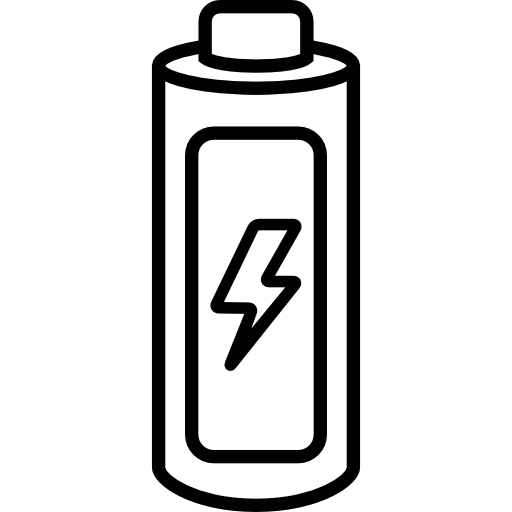
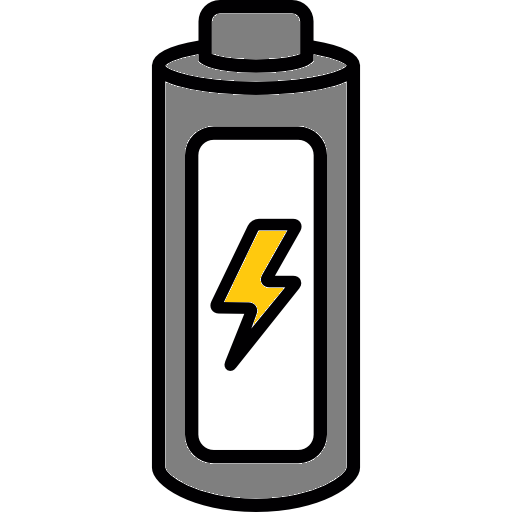
solución de errores, batería ya puede colocar mas de un cable, se mejoro el fondo,

Changed region(s): [[0.3125, 0.0, 0.6875, 1.0], [0.4375, 0.4375, 0.5625, 0.625]]

diff --git a/proyecto/scr/Cablear.java b/proyecto/scr/Cablear.java
@@ -130,19 +130,21 @@ public class Cablear {
     }
 
     public Boolean dibujarCable(double startX, double startY, double endX, double endY, int fila, int columna) {
-        // Comprobar si el cable está siendo dibujado en el mismo punto
-        if (startX == endX && startY == endY) {
-            System.err.println("Error: El cable no puede ser dibujado en el mismo punto.");
-            return false; // No se dibuja el cable
-        }
-    
-        // Calcular las posiciones de inicio y fin en la matriz de conexiones
-        int filaInicio = (int) (startY / (gridPane.getHeight() / gridPane.getRowConstraints().size()));
-        int columnaInicio = (int) (startX / (gridPane.getWidth() / gridPane.getColumnConstraints().size()));
-        int filaFin = (int) (endY / (gridPane.getHeight() / gridPane.getRowConstraints().size()));
-        int columnaFin = (int) (endX / (gridPane.getWidth() / gridPane.getColumnConstraints().size()));
-    
-        // Comprobar si ya existe un cable en la posición de inicio o fin
+    // Comprobar si el cable está siendo dibujado en el mismo punto
+    if (startX == endX && startY == endY) {
+        System.err.println("Error: El cable no puede ser dibujado en el mismo punto.");
+        return false; // No se dibuja el cable
+    }
+
+    // Calcular las posiciones de inicio y fin en la matriz de conexiones
+    int filaInicio = (int) (startY / (gridPane.getHeight() / gridPane.getRowConstraints().size()));
+    int columnaInicio = (int) (startX / (gridPane.getWidth() / gridPane.getColumnConstraints().size()));
+    int filaFin = (int) (endY / (gridPane.getHeight() / gridPane.getRowConstraints().size()));
+    int columnaFin = (int) (endX / (gridPane.getWidth() / gridPane.getColumnConstraints().size()));
+    System.err.println(filaFin + " " + columnaFin + " " + filaInicio + " " + columnaFin);
+
+    // Comprobar si ya existe un cable en la posición de inicio o fin
+    if (startX != 1090){
         for (Cable cable : cables) {
             if ((Math.abs(cable.getStartX() - startX) < 10 && Math.abs(cable.getStartY() - startY) < 10) ||
                     (Math.abs(cable.getEndX() - endX) < 10 && Math.abs(cable.getEndY() - endY) < 10)) {
@@ -150,63 +152,67 @@ public class Cablear {
                 return false; // No se dibuja el cable
             }
         }
-    
-        // Comprobar si el cable está siendo colocado en el mismo lugar en el inicio y en el fin
-        if (filaInicio == filaFin && columnaInicio == columnaFin) {
-            System.err.println("Error: El cable no puede ser colocado en el mismo lugar en el inicio y en el fin.");
+    }
+
+    // Comprobar si el cable está siendo colocado en el mismo lugar en el inicio y en el fin
+    if (filaInicio == filaFin && columnaInicio == columnaFin) {
+        System.err.println("Error: El cable no puede ser colocado en el mismo lugar en el inicio y en el fin.");
+        return false; // No se dibuja el cable
+    }
+
+    // Verifica si el objeto seleccionado es válido y si la posición es válida
+    if (objetoSeleccionado != null) {
+        if (!verificarPosicion(startX, startY, endX, endY)) {
+            // Si la posición no es válida, mostrar un mensaje de error
+            Platform.runLater(() -> {
+                Alert alerta = new Alert(Alert.AlertType.ERROR);
+                alerta.setTitle("Error");
+                alerta.setHeaderText("Error al colocar el objeto");
+                alerta.setContentText("El objeto no se puede colocar en la posición seleccionada. Verifique que esté dentro de un cable válido.");
+                alerta.showAndWait();
+            });
+
+            // Limpiar el estado de dibujo y seleccionar el objeto
+            drawing = false;
+            cablearActivo = false;
+            objetoSeleccionado = null;
             return false; // No se dibuja el cable
         }
-    
-        // Verifica si el objeto seleccionado es válido y si la posición es válida
-        if (objetoSeleccionado != null) {
-            if (!verificarPosicion(startX, startY, endX, endY)) {
-                // Si la posición no es válida, mostrar un mensaje de error
-                Platform.runLater(() -> {
-                    Alert alerta = new Alert(Alert.AlertType.ERROR);
-                    alerta.setTitle("Error");
-                    alerta.setHeaderText("Error al colocar el objeto");
-                    alerta.setContentText("El objeto no se puede colocar en la posición seleccionada. Verifique que esté dentro de un cable válido.");
-                    alerta.showAndWait();
-                });
-    
-                // Limpiar el estado de dibujo y seleccionar el objeto
-                drawing = false;
-                cablearActivo = false;
-                objetoSeleccionado = null;
-                return false; // No se dibuja el cable
-            }
-        }
-    
-        Paint color = objetoSeleccionado != null ? objetoSeleccionado.getColor() : Color.BLACK;
-        ImageView imageView = objetoSeleccionado != null ? new ImageView(objetoSeleccionado.getImagen()) : null;
-        boolean pasa = objetoSeleccionado != null ? objetoSeleccionado.getpasa() : false;
-    
-        // Crear el cable con la información proporcionada
-        Cable cable = new Cable(startX, startY, endX, endY, color, imageView, objetoSeleccionado, pasa);
-    
-        // Añadir el cable a la lista y al Pane de dibujo
-        cables.add(cable);
-        drawingPane.getChildren().add(cable.getLinea());
-        cable.getLinea().toFront();
-    
-        if (imageView != null) {
-            double cellSize = gridPane.getWidth() / gridPane.getColumnConstraints().size();
-            imageView.setFitWidth(cellSize);
-            imageView.setFitHeight(cellSize);
-    
-            imageView.setLayoutX((startX + endX) / 2 - imageView.getFitWidth() / 2);
-            imageView.setLayoutY((startY + endY) / 2 - imageView.getFitHeight() / 2);
-    
-            drawingPane.getChildren().add(imageView);
-            imageView.toFront();
-        }
-    
-        // Actualizar la matriz de conexiones para el inicio y el fin del cable
-        actualizarMatrizConexiones(filaInicio, columnaInicio, 1);
-        actualizarMatrizConexiones(filaFin, columnaFin, 1);
-        mostrarMatrizConexiones(); // Mostrar la matriz por consola
-        return true;
     }
+
+    Paint color = objetoSeleccionado != null ? objetoSeleccionado.getColor() : Color.BLACK;
+    ImageView imageView = objetoSeleccionado != null ? new ImageView(objetoSeleccionado.getImagen()) : null;
+    boolean pasa = objetoSeleccionado != null ? objetoSeleccionado.getpasa() : false;
+
+    // Crear el cable con la información proporcionada
+    Cable cable = new Cable(startX, startY, endX, endY, color, imageView, objetoSeleccionado, pasa);
+
+    // Añadir el cable a la lista y al Pane de dibujo
+    cables.add(cable);
+    drawingPane.getChildren().add(cable.getLinea());
+    cable.getLinea().toFront();
+
+    if (imageView != null) {
+        double cellSize = gridPane.getWidth() / gridPane.getColumnConstraints().size();
+        imageView.setFitWidth(cellSize);
+        imageView.setFitHeight(cellSize);
+
+        imageView.setLayoutX((startX + endX) / 2 - imageView.getFitWidth() / 2);
+        imageView.setLayoutY((startY + endY) / 2 - imageView.getFitHeight() / 2);
+
+        drawingPane.getChildren().add(imageView);
+        imageView.toFront();
+    }
+
+    // Actualizar la matriz de conexiones para el inicio y el fin del cable
+    int valor = pasa ? 1 : -1; // Determinar el valor basado en pasa
+    actualizarMatrizConexiones(filaInicio, columnaInicio, valor);
+    actualizarMatrizConexiones(filaFin, columnaFin, valor);
+    mostrarMatrizConexiones(); // Mostrar la matriz por consola
+    return true;
+}
+
+    
     
 
     private void manejarclicks(MouseEvent event) {
@@ -235,20 +241,33 @@ public class Cablear {
                 event.consume(); // Evita que el evento se propague
             }
         } else if (event.getButton() == MouseButton.PRIMARY && objetoSeleccionado == null) {
-            Cable cableToChange = null;
+            Cable cableCambiado = null;
             for (Cable cable : cables) {
                 if (cable.getLinea().contains(event.getX(), event.getY())) {
-                    cableToChange = cable;
+                    cableCambiado = cable;
                     break;
                 }
             }
-            if (cableToChange != null && cableToChange.getObjeto() != null) {
+            if (cableCambiado != null && cableCambiado.getObjeto() != null) {
                 // Cambiar el estado del objeto asociado con el cable
-                cableToChange.getObjeto().alternarImagen();
+                Objeto objeto = cableCambiado.getObjeto();
+                objeto.alternarImagen();
+                // Actualizar el valor de pasa
+                boolean nuevoPasa = objeto.getpasa();
                 // Actualizar la imagen en el pane de dibujo si es necesario
-                if (cableToChange.getImageView() != null) {
-                    cableToChange.getImageView().setImage(cableToChange.getObjeto().getImagen());
+                if (cableCambiado.getImageView() != null) {
+                    cableCambiado.getImageView().setImage(objeto.getImagen());
                 }
+                // Actualizar la matriz de conexiones
+                int filaInicio = (int) (cableCambiado.getStartY() / (gridPane.getHeight() / 14));
+                int columnaInicio = (int) (cableCambiado.getStartX() / (gridPane.getWidth() / 30));
+                int filaFin = (int) (cableCambiado.getEndY() / (gridPane.getHeight() / 14));
+                int columnaFin = (int) (cableCambiado.getEndX() / (gridPane.getWidth() / 30));
+                int valor = nuevoPasa ? 1 : -1; // Determinar el valor basado en pasa
+                actualizarMatrizConexiones(filaInicio, columnaInicio, valor);
+                actualizarMatrizConexiones(filaFin, columnaFin, valor);
+                mostrarMatrizConexiones(); // Mostrar la matriz por consola
+        
                 event.consume(); // Evita que el evento se propague
             }
         }
@@ -256,10 +275,28 @@ public class Cablear {
 
     // Método para cambiar un cable por otro objeto o estado
     private void cambiarCable(Cable cable) {
-        eliminarCable(cable); // Elimina el cable actual
+        // Obtener las coordenadas del cable existente
+        int filaInicio = (int) (cable.getStartY() / (gridPane.getHeight() / 14));
+        int columnaInicio = (int) (cable.getStartX() / (gridPane.getWidth() / 30));
+        int filaFin = (int) (cable.getEndY() / (gridPane.getHeight() / 14));
+        int columnaFin = (int) (cable.getEndX() / (gridPane.getWidth() / 30));
+    
+        // Eliminar el cable actual
+        eliminarCable(cable);
+    
         // Crear un nuevo cable con las mismas coordenadas pero con el nuevo objeto
         dibujarCable(cable.getStartX(), cable.getStartY(), cable.getEndX(), cable.getEndY(), loc.getFilaActual(),
                 loc.getColumnaActual());
+    
+        // Actualizar la matriz de conexiones para el nuevo estado del cable
+        Cable nuevoCable = cables.get(cables.size() - 1); // El último cable agregado es el nuevo cable
+        boolean pasa = nuevoCable.pasa(); // Obtener el nuevo estado de pasa
+        int valor = pasa ? 1 : -1; // Determinar el valor basado en pasa
+        actualizarMatrizConexiones(filaInicio, columnaInicio, valor);
+        actualizarMatrizConexiones(filaFin, columnaFin, valor);
+        mostrarMatrizConexiones(); // Mostrar la matriz por consola
+        // Actualizar la matriz para el inicio y el fin del nuevo cable
+    
         cablearActivo = false; // Desactiva la funcionalidad de cablear después de cambiar
         objetoSeleccionado = null; // Limpiar la selección del objeto después de usarlo
     }

diff --git a/proyecto/scr/Bateria.java b/proyecto/scr/Bateria.java
@@ -49,52 +49,52 @@ public class Bateria {
     }
 
     private void configurarEventos() {
-        botonVerde.setOnAction(e -> seleccionarColor(Color.GREEN, botonVerde));
+        botonVerde.setOnAction(e -> seleccionarColor(Color.BLUE, botonVerde));
         botonRojo.setOnAction(e -> seleccionarColor(Color.RED, botonRojo));
     }
 
     private void seleccionarColor(Color color, Node boton) {
         this.colorEsperado = color;
-
+    
         // Ajusta las coordenadas según el color seleccionado
-        if (color == Color.GREEN) {
+        if (color == Color.BLUE) {
             startX = 1090;
             startY = 320;
         } else {
             startX = 1090;
             startY = 400;
         }
-
+    
         // Configura el objeto seleccionado para el cable
-        Objeto objeto = new Objeto(color == Color.GREEN ? "Cable_azul" : "Cable_rojo");
+        Objeto objeto = new Objeto(color == Color.BLUE ? "Cable_azul" : "Cable_rojo");
         cablear.setObjetoSeleccionado(objeto);
-
+    
         // Configura el evento de clic en el GridPane
         gridPane.setOnMouseClicked(this::manejarClickGridPane);
-        activarBotones(false); // Desactiva los botones mientras espera la selección de una celda
     }
-
+    
     private void manejarClickGridPane(MouseEvent evento) {
         if (evento.getButton() != javafx.scene.input.MouseButton.PRIMARY) return;
-
+    
         // Obtener las coordenadas de la celda seleccionada
         int fila = loc.getFilaActual();
         int columna = loc.getColumnaActual();
-
+    
         if (fila >= 0 && columna >= 0) {
-            // Aplica el color y actualiza el protoboard
-            protoboard.cambiarColor(fila, columna, colorEsperado);
-            controlador.actualizarBuses(protoboard.getGridPane());
-            controlador.ActualizarProtoboard(protoboard.getGridPane());
-            protoboard.actualizarMatriz(gridPane);
-
+            
+    
             // Dibuja el cable desde el botón hacia la celda seleccionada
             double endX = evento.getX() - 5;
             double endY = evento.getY() - 5;
-
+    
             // Verifica y dibuja el cable si no hay conflictos
             boolean exito = cablear.dibujarCable(startX, startY, endX, endY, fila, columna);
             if (exito) {
+                // Aplica el color y actualiza el protoboard
+                protoboard.cambiarColor(fila, columna, colorEsperado);
+                controlador.actualizarBuses(protoboard.getGridPane());
+                controlador.ActualizarProtoboard(protoboard.getGridPane());
+                protoboard.actualizarMatriz(gridPane);
                 System.out.println("Cable conectado y color aplicado.");
             } else {
                 System.out.println("No se pudo conectar el cable (posiblemente hay un cable en la misma posición).");
@@ -104,15 +104,10 @@ public class Bateria {
         }
         finalizarAccion(); // Finaliza la acción después de aplicar el color
     }
+    
 
     private void finalizarAccion() {
         gridPane.setOnMouseClicked(null); // Elimina el manejador de eventos del mouse
-        activarBotones(true); // Reactiva los botones después de que se ha realizado la acción
-    }
-
-    private void activarBotones(boolean activar) {
-        botonVerde.setDisable(!activar);
-        botonRojo.setDisable(!activar);
     }
 
     public VBox getContenedorBateria() {

diff --git a/proyecto/scr/Objeto.java b/proyecto/scr/Objeto.java
@@ -19,25 +19,25 @@ public class Objeto {
     private void cargarImagenYColor() {
         switch (id) {
             case "Cable_azul":
-                imagen = new Image("file:C:\\Users\\matia\\OneDrive\\Escritorio\\proyecto\\resources\\nada.png");
+                imagen = new Image("file:C:\\Users\\Felipe\\Desktop\\proyecto\\resources\\nada.png");
                 color = Color.DARKBLUE;
                 pasa = true; 
                 largo = 99;
                 break;
             case "Cable_rojo":
-                imagen = new Image("file:C:\\Users\\matia\\OneDrive\\Escritorio\\proyecto\\resources\\nada.png");
+                imagen = new Image("file:C:\\Users\\Felipe\\Desktop\\proyecto\\resources\\nada.png");
                 color = color.DARKRED; 
                 pasa = true; 
                 largo = 99;
                 break;
             case "Led":
-                imagen = new Image("file:C:\\Users\\matia\\OneDrive\\Escritorio\\proyecto\\resources\\led_off.png");
+                imagen = new Image("file:C:\\Users\\Felipe\\Desktop\\proyecto\\resources\\led_off.png");
                 color = Color.DARKGRAY;
                 pasa = true;
                 largo = 2;
                 break;
             case "Switch":
-                imagen = new Image("file:C:\\Users\\matia\\OneDrive\\Escritorio\\proyecto\\resources\\switch_off.png"); 
+                imagen = new Image("file:C:\\Users\\Felipe\\Desktop\\proyecto\\resources\\switch_off.png"); 
                 color = Color.BLACK;
                 pasa = false; 
                 largo = 4;
@@ -46,6 +46,7 @@ public class Objeto {
                 imagen = null;
                 color = Color.BLACK; 
                 pasa = true; 
+                largo = 99;
                 break;
         }
     }

diff --git a/proyecto/scr/Controlador.java b/proyecto/scr/Controlador.java
@@ -6,11 +6,11 @@ public class Controlador {
 
     public void actualizarBuses(GridPane gridPane) {
         for (int i = 0; i < 2; i++) {
-            actualizarFilaBus(gridPane, i, Color.GREEN);
+            actualizarFilaBus(gridPane, i, Color.BLUE);
             actualizarFilaBus(gridPane, i, Color.RED);
         }
         for (int i = 12; i < 14; i++) {
-            actualizarFilaBus(gridPane, i, Color.GREEN);
+            actualizarFilaBus(gridPane, i, Color.BLUE);
             actualizarFilaBus(gridPane, i, Color.RED);
         }
     }
@@ -37,11 +37,11 @@ public class Controlador {
 
     public void ActualizarProtoboard(GridPane gridPane) {
         for (int i = 2; i < 7; i++) {
-            actualizarFila(gridPane, i, Color.GREEN);
+            actualizarFila(gridPane, i, Color.BLUE);
             actualizarFila(gridPane, i, Color.RED);
         }
         for (int i = 7; i < 12; i++) {
-            actualizarFila(gridPane, i, Color.GREEN);
+            actualizarFila(gridPane, i, Color.BLUE);
             actualizarFila(gridPane, i, Color.RED);
         }
     }

diff --git a/proyecto/scr/Protoboard.java b/proyecto/scr/Protoboard.java
@@ -124,7 +124,7 @@ public class Protoboard {
                 if (node != null && node instanceof Circle) { // Asegurarse de que no sea null y sea un Circle
                     Circle punto = (Circle) node;
                     Color color = (Color) punto.getFill(); // Cambié de Label a Circle ya que los nodos son círculos
-                    if (color.equals(Color.GREEN)) {
+                    if (color.equals(Color.BLUE)) {
                         matriz[i][j] = '+'; // Verde
                     } else if (color.equals(Color.RED)) {
                         matriz[i][j] = '-'; // Rojo

diff --git a/proyecto/scr/Cable.java b/proyecto/scr/Cable.java
@@ -50,7 +50,7 @@ public class Cable {
         return imageView;
     }
 
-    public boolean PasaEnergia(){
+    public boolean pasa(){
         return pasaEnergia;
     }
 
